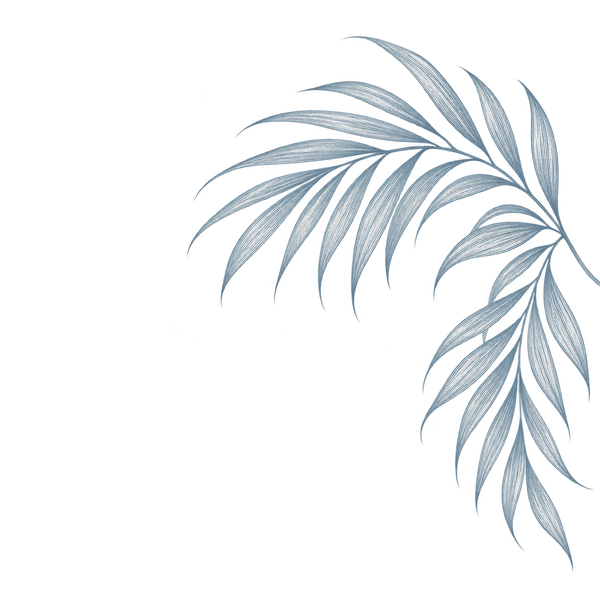
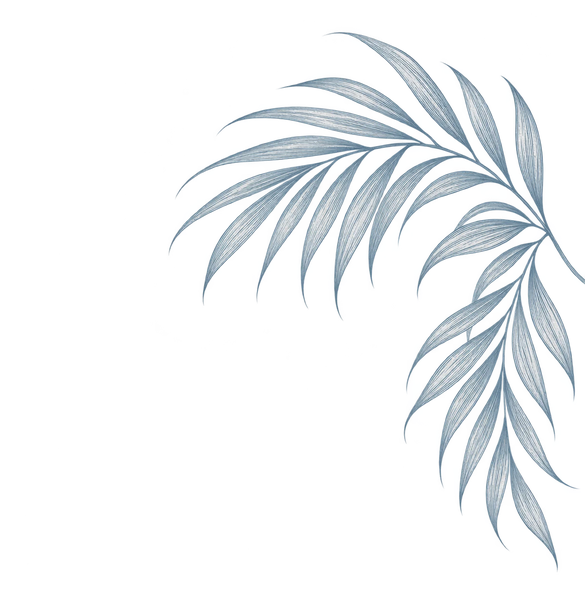
Recorta el margen transparente de las hojas de Dress Code
Igual que se hizo con las hojas de Celebración para adultos: se
recorta al borde real del dibujo para que queden bien pegadas a
las esquinas de la sección.

diff --git a/public/wedding-invitation_1.html b/public/wedding-invitation_1.html
@@ -621,8 +621,8 @@
     pointer-events: none;
     z-index: 0;
   }
-  .dresscode-leaf-bl { bottom: -30px; left: -40px; }
-  .dresscode-leaf-tr { top: -30px; right: -40px; transform: rotate(0deg); }
+  .dresscode-leaf-bl { bottom: 0; left: -15px; }
+  .dresscode-leaf-tr { top: 0; right: -15px; }
 
   /* Layout dos columnas */
   .dresscode-container {
